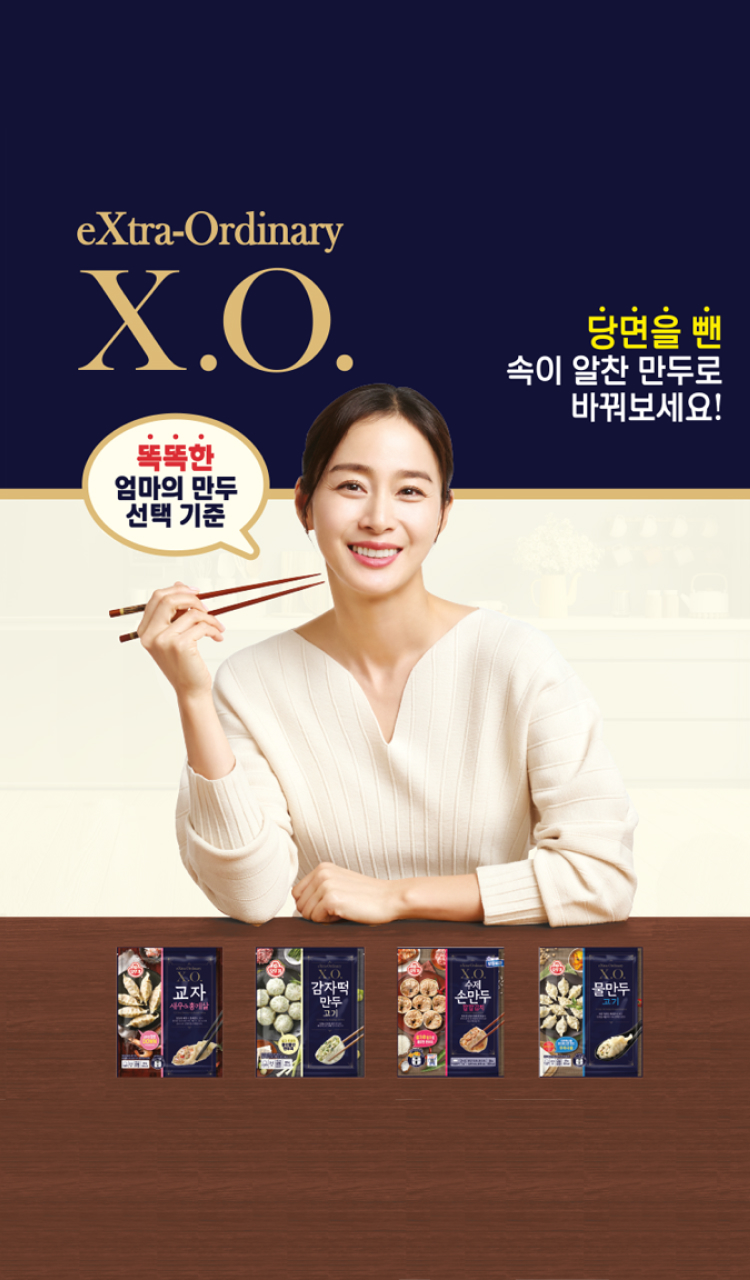
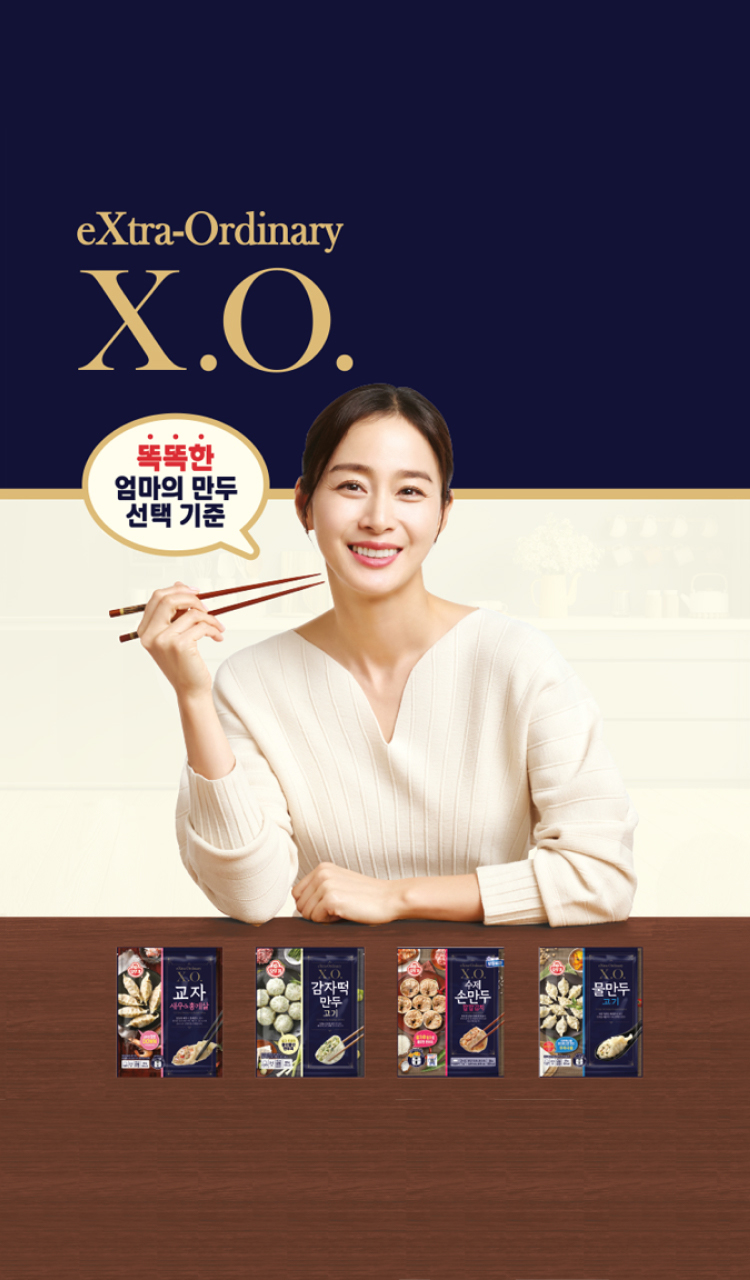
Add files via upload

Changed region(s): [[0.6747, 0.2188, 0.9813, 0.3438]]

diff --git a/css/style.css b/css/style.css
@@ -7,6 +7,10 @@
     --p_bg: #FFFDEB;
 }
 
+/* * {
+    outline: 1px solid tomato;
+} */
+
 html {
     font-size: 10px;
 }
@@ -184,6 +188,10 @@ body {
     left: 50%;
     transform: translate(-50%, -50%);
 
+    max-width: 144rem;
+    width: 100%;
+    padding: 0 1.5rem;
+
     color: var(--wc);
     text-align: center;
     white-space: nowrap;
@@ -192,8 +200,8 @@ body {
 
 .MainVisual .visual_slide .itm .txt_box span {
     display: block;
-    font-size: 6.4rem;
-    font-weight: 800;
+    font-size: 4.8rem;
+    font-weight: 700;
 
     margin: 0 0 1.6rem 0;
 
@@ -203,31 +211,34 @@ body {
 
 .MainVisual .visual_slide .itm .txt_box strong {
     display: block;
-    font-size: 6.4rem;
-    font-weight: 800;
+    font-size: 4.8rem;
+    font-weight: 700;
     transform: translate(0, 3rem);
 
     transform: translate(0, 3rem);
     opacity: 0;
 }
 
-.MainVisual .visual_slide .itm.swiper-slide-active .txt_box span {
+.MainVisual .visual_slide .itm.on .txt_box span {
     transform: translate(0, 0);
     opacity: 1;
 
-    transition: 1s;
+    transition-property: transform, opacity;
+    transition-duration: 1s;
 }
 
-.MainVisual .visual_slide .itm.swiper-slide-active .txt_box strong {
+.MainVisual .visual_slide .itm.on .txt_box strong {
     transform: translate(0, 0);
     opacity: 1;
 
-    transition: 1s 0.5s;
+    transition-property: transform, opacity;
+    transition-duration: 1s;
+    transition-delay: 0.5s;
 }
 
 .MainVisual .visual_slide .control_box {
     position: absolute;
-    bottom: 15.6rem;
+    bottom: 13.2rem;
     left: 50%;
     z-index: 998;
 
@@ -246,11 +257,37 @@ body {
 
 .MainVisual .visual_slide .control_box .control_btn span {
     font-size: 3.2rem;
+    font-weight: 300;
     color: var(--wc);
     background: rgba(0, 0, 0, 0.3);
-    padding: 1.6rem;
+    padding: 1.2rem;
 
     cursor: pointer;
+}
+
+.MainVisual .visual_slide .slide_num {
+    position: absolute;
+    top: 13.2rem;
+    left: 50%;
+    z-index: 998;
+
+    transform: translate(-50%, 0);
+
+    max-width: 144rem;
+    width: 100%;
+    padding: 0 1.5rem;
+
+    text-align: right;
+    color: var(--wc);
+    font-size: 2rem;
+    font-weight: 300;
+    text-shadow: 1px 1px 0 var(--bc);
+}
+
+.MainVisual .visual_slide .slide_num span {
+    font-size: 3.2rem;
+    font-weight: 600;
+    color: var(--mc);
 }
 
 .MainVisual .scroll {
@@ -270,8 +307,8 @@ body {
     left: 50%;
     transform: translate(-50%, 0);
 
-    width: 4rem;
-    height: 6rem;
+    width: 3rem;
+    height: 4.5rem;
 
     border: 1px solid var(--wc);
     border-radius: 2rem;
@@ -287,7 +324,7 @@ body {
     transform: translate(-50%, 0);
 
     width: 0.1rem;
-    height: 1rem;
+    height: 0.8rem;
 
     background: var(--wc);
     animation: scroll_down 1s infinite;
@@ -299,11 +336,65 @@ body {
     }
 
     100% {
-        transform: translate(-50%, 2rem);
+        transform: translate(-50%, 3rem);
     }
 }
 
-@media (max-width: 786px) {}
+@media (max-width: 786px) {
+    .MainVisual .visual_slide .itm01 {
+        background: url(../images/main_slide_respon02.jpg) no-repeat center center/cover;
+    }
+
+    .MainVisual .visual_slide .itm02 {
+        background: url(../images/main_slide_respon03.jpg) no-repeat center center/cover;
+    }
+
+    .MainVisual .visual_slide .itm03 {
+        background: url(../images/main_slide_respon04.jpg) no-repeat center center/cover;
+    }
+
+    .MainVisual .visual_slide .itm04 {
+        background: url(../images/main_slide_respon06.jpg) no-repeat center center/cover;
+    }
+
+    .MainVisual .visual_slide .itm .txt_box span {
+        font-size: 6vw;
+    }
+
+    .MainVisual .visual_slide .itm .txt_box strong {
+        font-size: 6vw;
+    }
+
+    .MainVisual .visual_slide .control_box {
+        bottom: 5.2rem;
+    }
+
+    .MainVisual .visual_slide .control_box .control_btn {
+        justify-content: center;
+    }
+
+    .MainVisual .visual_slide .slide_num {
+        display: none;
+    }
+
+    .MainVisual .scroll {
+        position: absolute;
+        bottom: 2rem;
+        left: 50%;
+        transform: translate(-50%, 0);
+        z-index: 998;
+
+        color: var(--wc);
+    }
+
+    .MainVisual .scroll::before {
+        display: none;
+    }
+
+    .MainVisual .scroll::after {
+        display: none;
+    }
+}
 
 
 

diff --git a/index.html b/index.html
@@ -88,14 +88,14 @@
                         </div>
                         <div class="swiper-slide itm itm03">
                             <div class="txt_box">
-                                <span>맛과 품질을 가장 소중히</span>
-                                <strong>생각하고 행동합니다</strong>
+                                <span>소비자가 필요로 하고</span>
+                                <strong>소비자에게 편리한 제품을 만들어 갑니다</strong>
                             </div>
                         </div>
                         <div class="swiper-slide itm itm04">
-                            <div class="txt_box">
-                                <span>맛과 품질을 가장 소중히</span>
-                                <strong>생각하고 행동합니다</strong>
+                            <div class="txt_box blind">
+                                <span>당면을 뺀 속이 알찬 만두로</span>
+                                <strong>바꿔보세요!</strong>
                             </div>
                         </div>
                     </div>
@@ -117,6 +117,9 @@
                                 </span>
                             </div>
                         </div>
+                    </div>
+                    <div class="slide_num">
+                        <span>01</span> / <strong>04</strong>
                     </div>
                 </div>
                 <div class="scroll">

diff --git a/js/custom.js b/js/custom.js
@@ -15,12 +15,17 @@ const VISUAL_SLIDE = new Swiper('.visual_slide', {
         disableOnInteraction: false,
     },
 
-    // slideActiveClass: 'on',
-    // on: {
-    //     init: function () {
+    slideActiveClass: 'on',
 
-    //     }
-    // }
+    on: {
+        init: function () {
+        },
+        slideChangeTransitionEnd: function () {
+            console.log(this.realIndex);
+            document.querySelector('.slide_num span').innerHTML = `0${this.realIndex + 1}`;
+        }
+    }
+
 });
 
 const MAIN_SLIDE_PREV = document.querySelector('.MainVisual .control_box .left')
